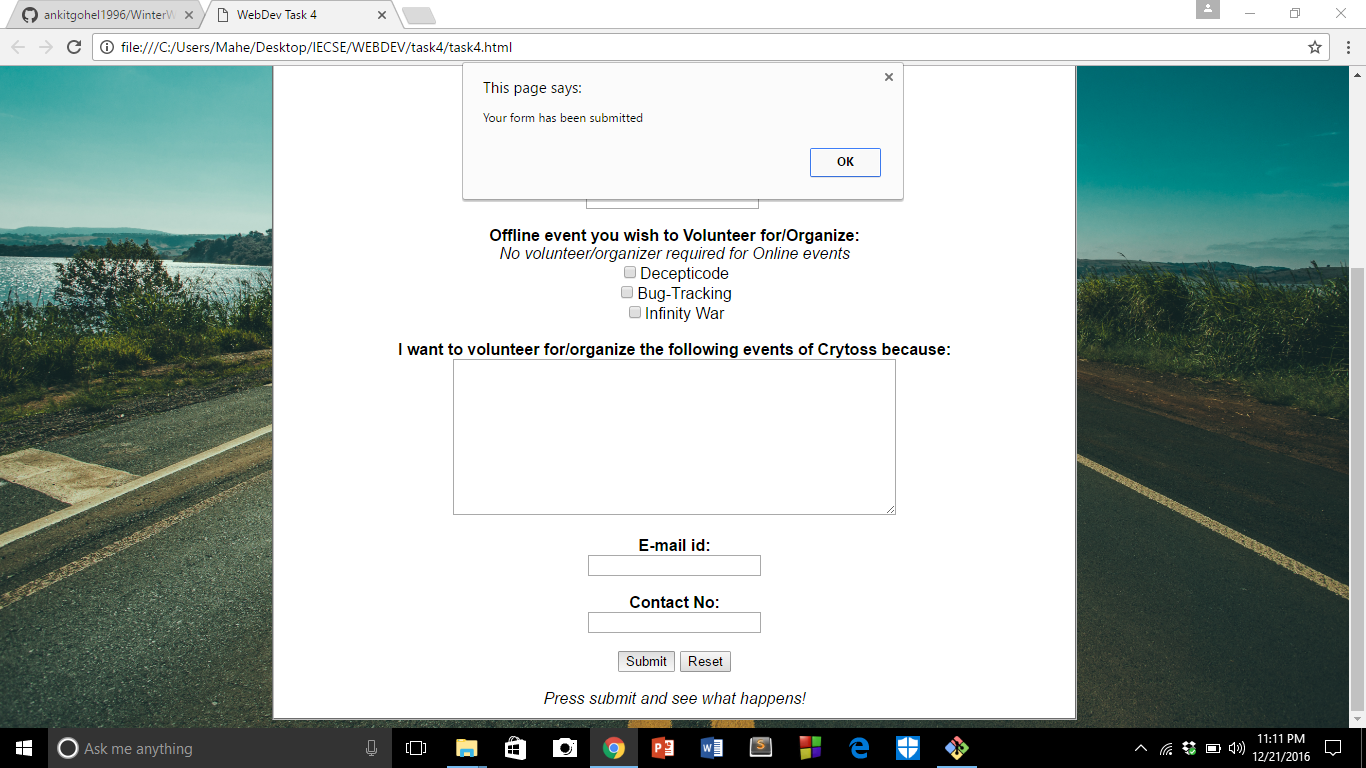
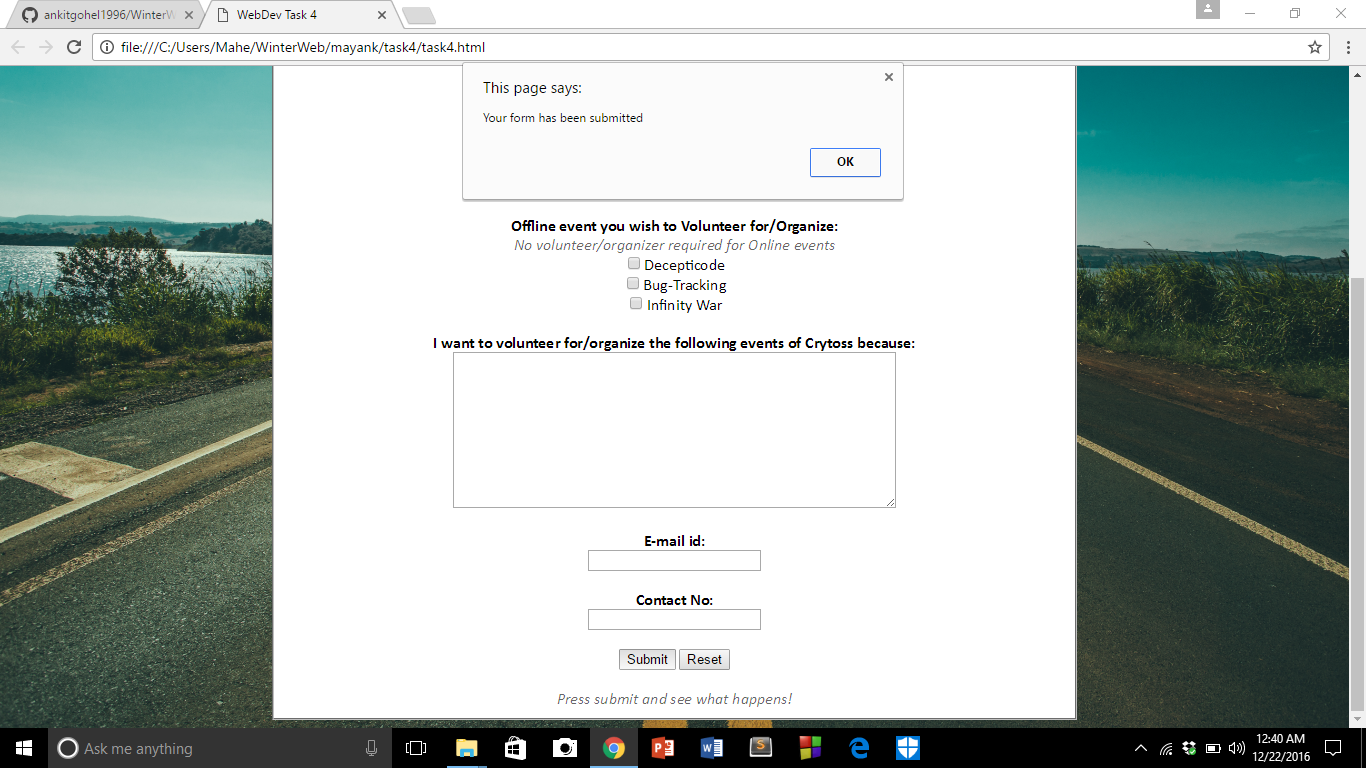
Task 4

diff --git a/mayank/task4/task4.css b/mayank/task4/task4.css
@@ -3,19 +3,22 @@ body {
 	margin-right: 20%;
 	padding: 0;
 	text-align: center;
-	font-family: sans-serif;
+	font-family: "Calibri";
 	background-image: url(mk.jpeg);
 	background-size: cover;
 	
 }
 
-h1{
-	font-family: serif;
+h1 {
+	font-family: "Minion";
 }
 
 fieldset{
 	background-color: white;
 }
 
+i {
+	opacity: 0.6;
+}
 
 
